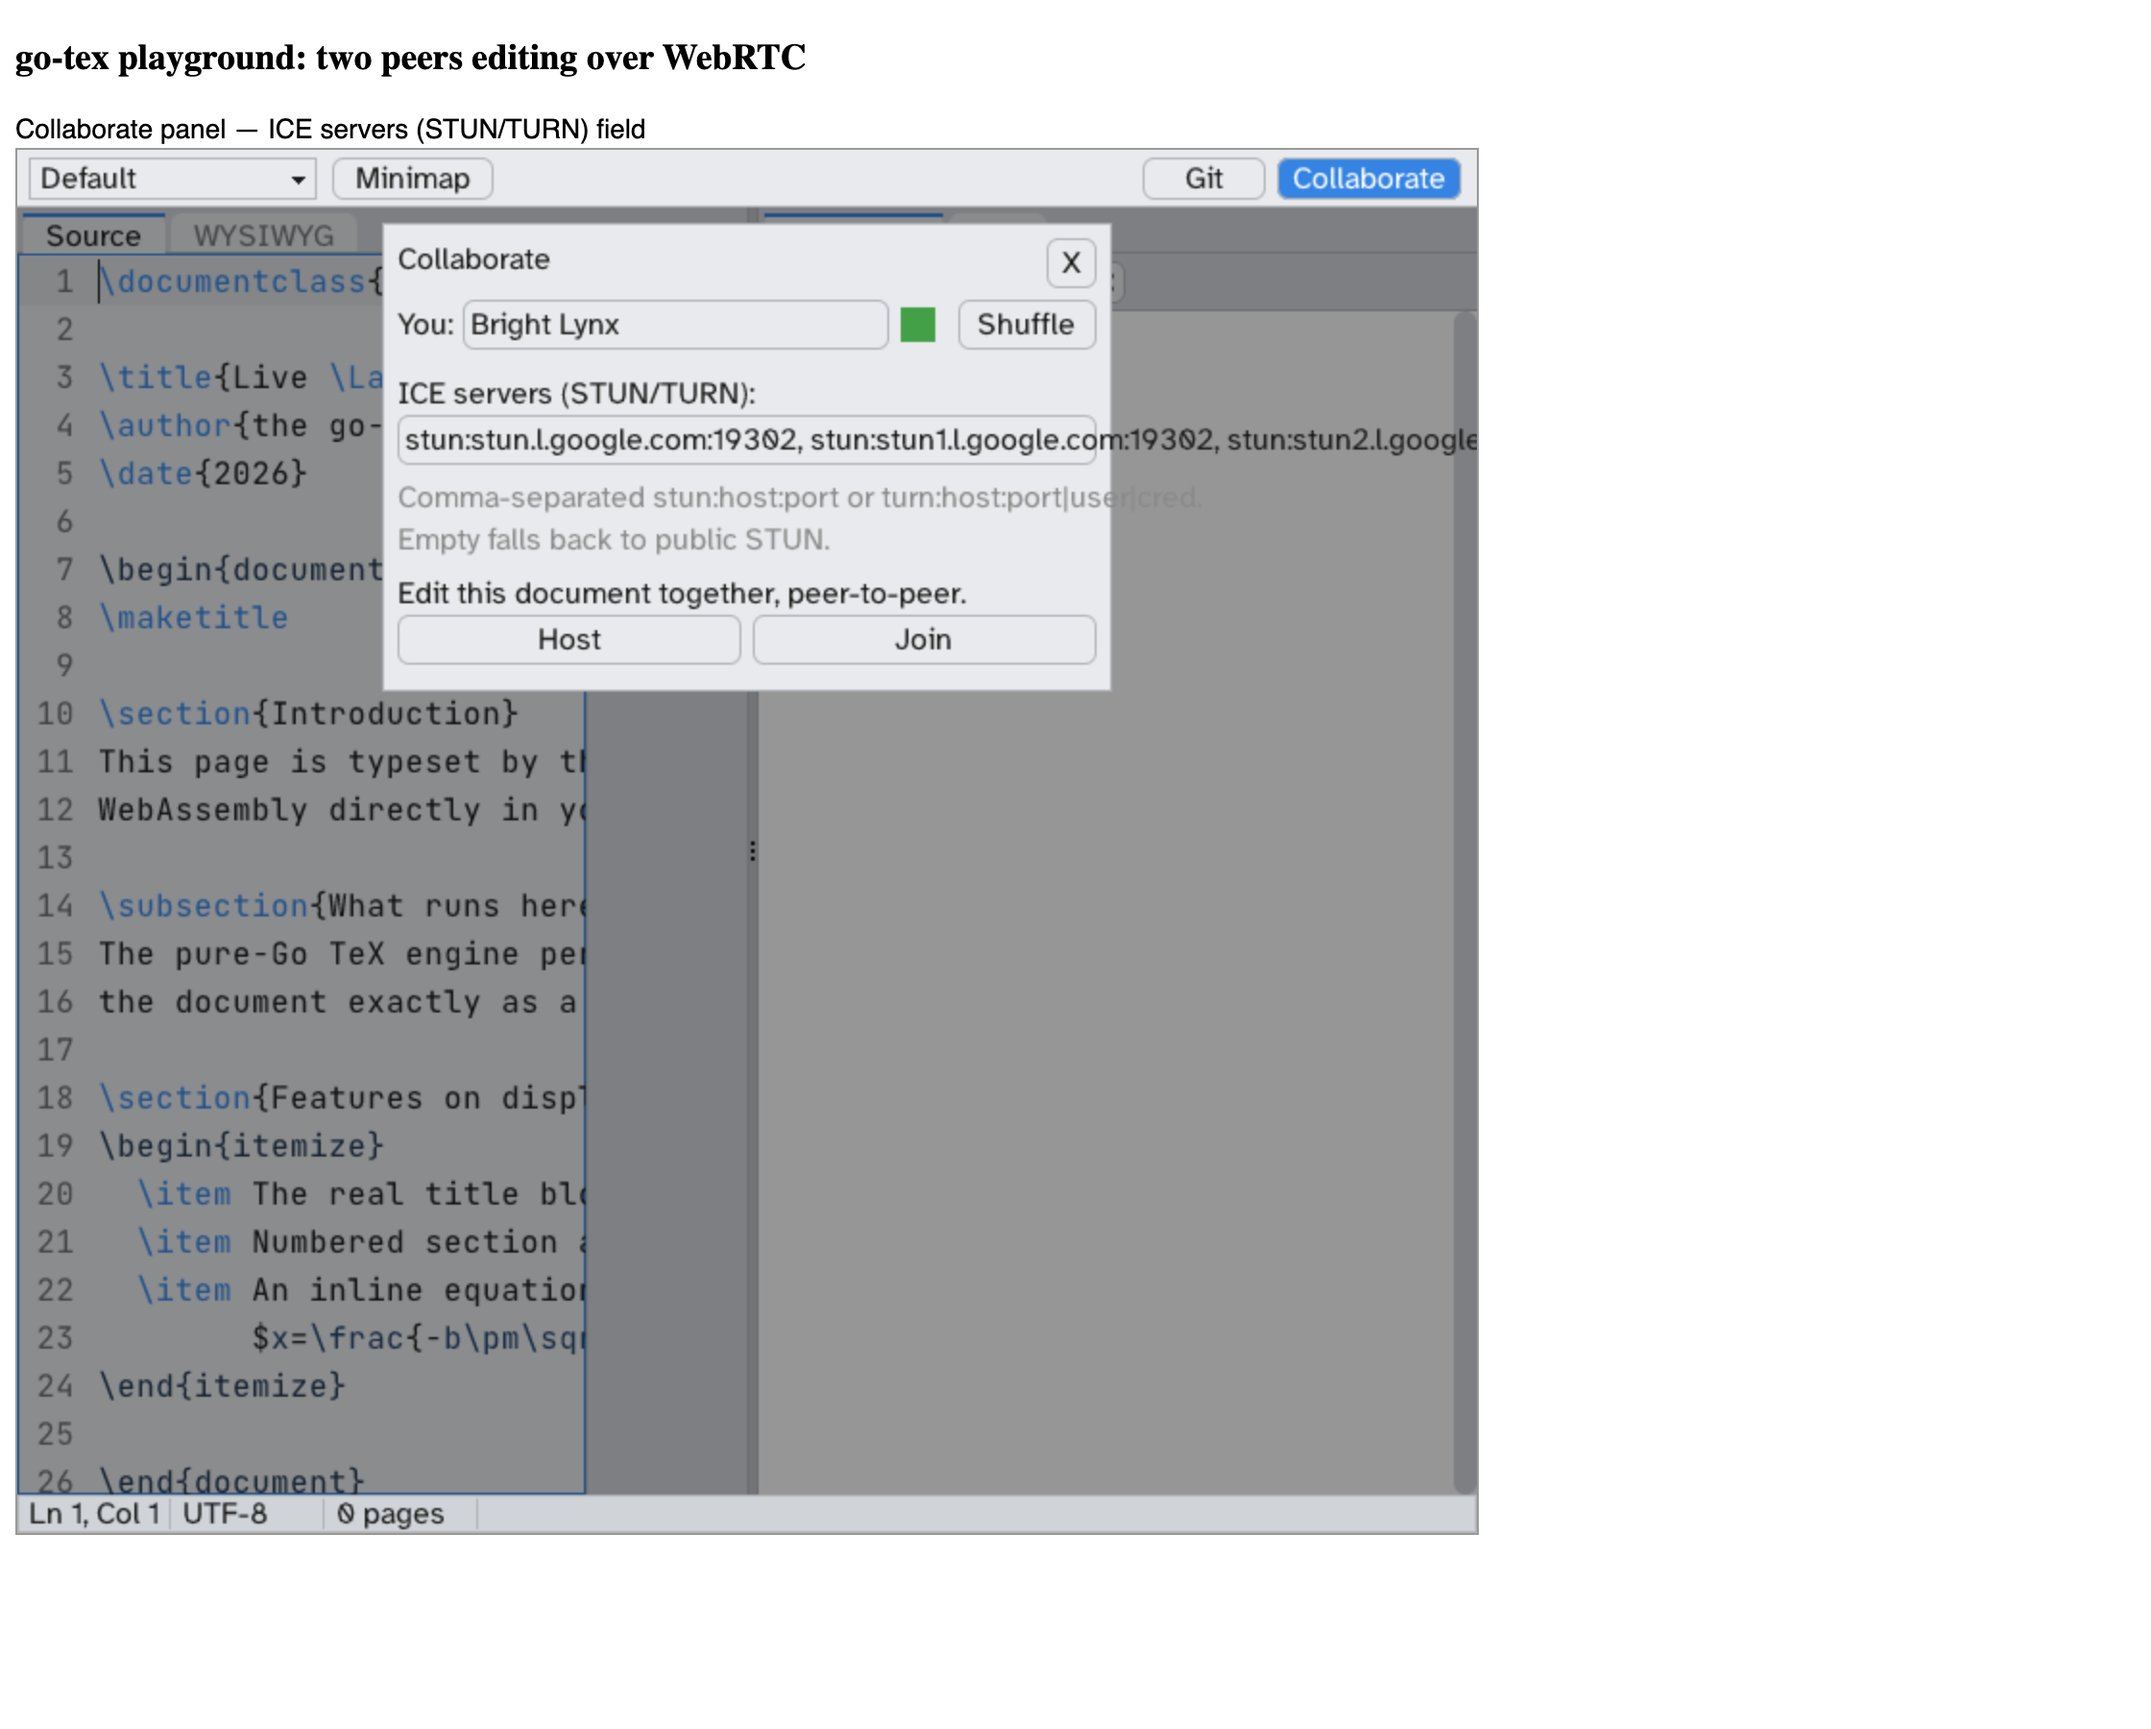
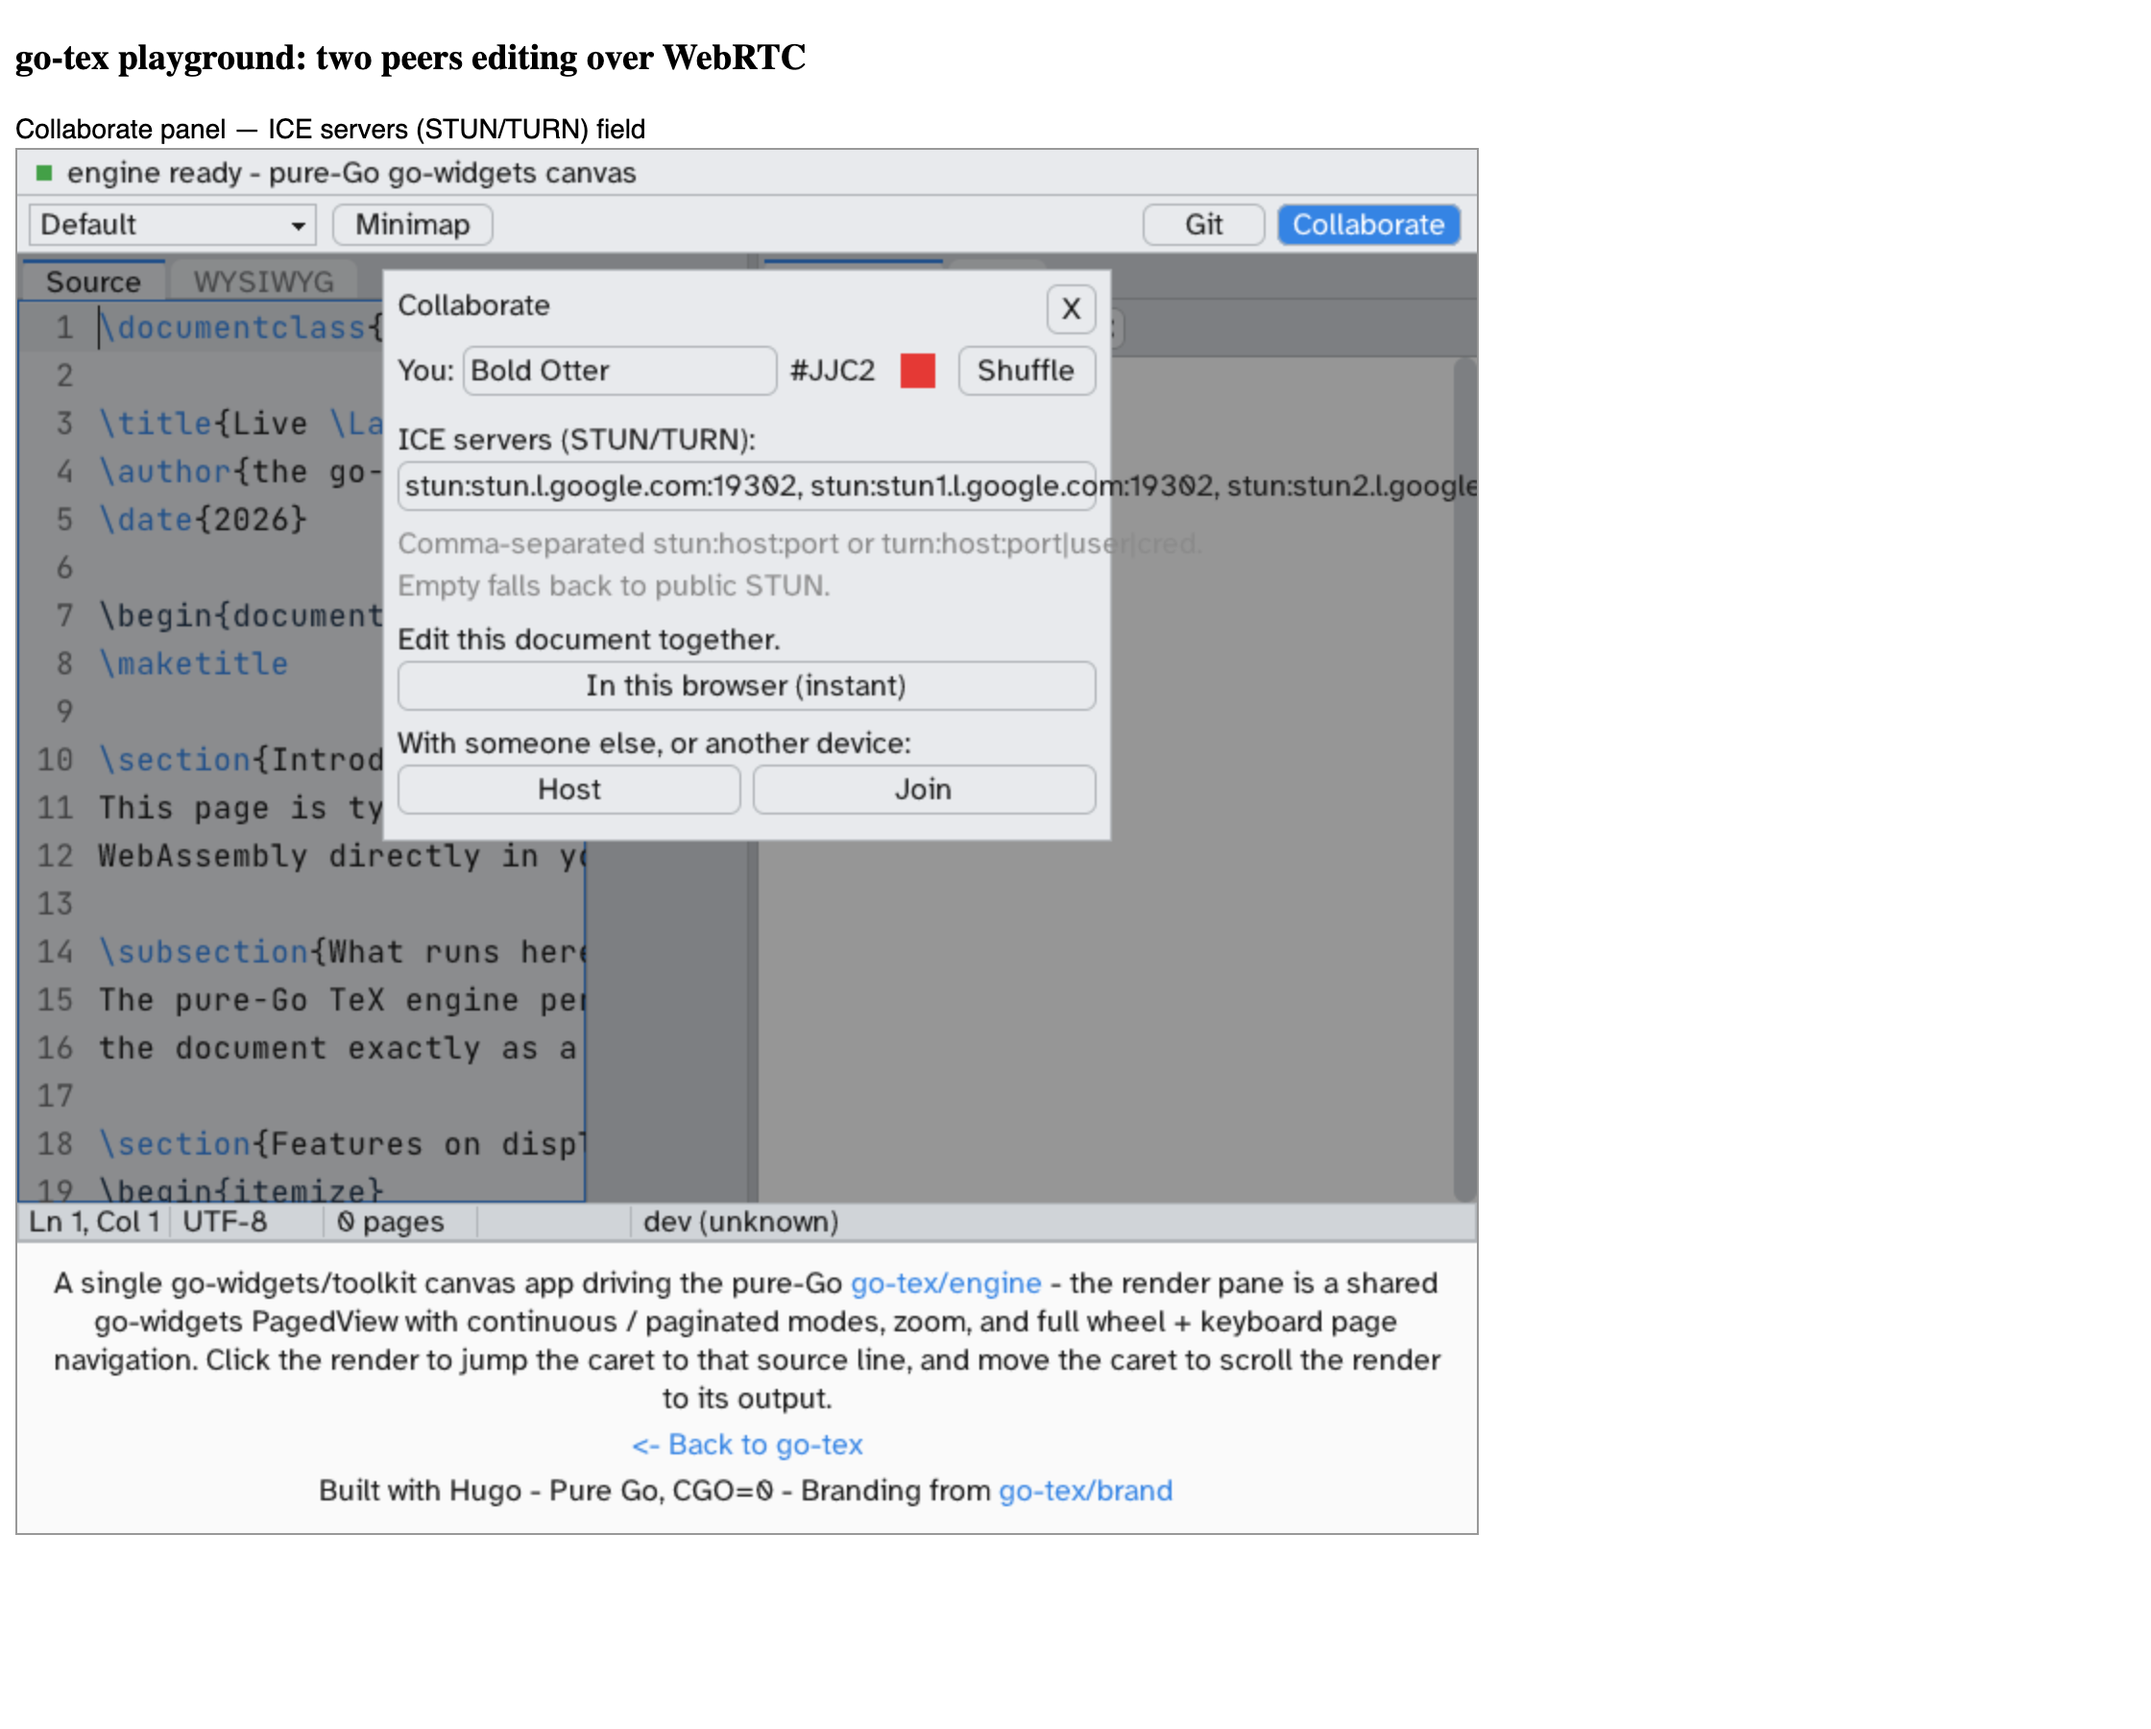
playground: make the rendered page findable, and prove it phrase by phrase
The DOM text layer shipped searchable in #44, but only within a run of
glyphs: a browser's find does not match a phrase spanning two <text>
elements, and every formula, table cell and line break started a new one.
Three engine releases closed that:

  v0.169.0  word boundaries — fixed textContent (screen readers, copy),
            and nothing for find
  v0.170.0  the whole page is ONE <text>, tspans carrying absolute x/y —
            what find actually needs
  v0.171.0  a run that ends holding a space no longer drops it, so a
            source newline in a justified paragraph stops gluing
            "every word" into "everyword"

This bumps the engine once, to v0.171.0, and turns the three failures
into assertions the browser suite now makes:

  boundary phrase : true | The rest mass is exactly        (across a formula)
  boundary phrase : true | alpha beta                      (across table cells)
  boundary phrase : true | every word of it can be found   (across a source newline)

The driver also dumps the layer's text content, which is how the last
failure was diagnosed — the assertion said false, the dump said
"everyword" and named the cause.

One test fix, not a product change: the click that proves the source-line
linking still works aimed at the centre of the first <text> element. With
the page now a single <text>, that centre is the middle of the page
rather than a glyph, so the click landed on blank paper and moved no
[…]

Changed region(s): [[0.0, 0.0933, 0.6875, 0.9022]]

diff --git a/playground/textlayer_browser_test.go b/playground/textlayer_browser_test.go
@@ -91,6 +91,11 @@ func TestRenderIsSearchableInABrowser(t *testing.T) {
 	for _, want := range []string{
 		"find(phrase)           : true",
 		`selection copied       : "office of the typesetter"`,
+		// The word boundaries an interruption used to swallow (engine v0.169.0):
+		// a formula between two words, two table cells, a line break.
+		"boundary phrase        : true | The rest mass is exactly",
+		"boundary phrase        : true | alpha beta",
+		"boundary phrase        : true | every word of it can be found",
 		"pointer-events         : none",
 		"outside the card: 0",
 		"element under a glyph  : canvas",
